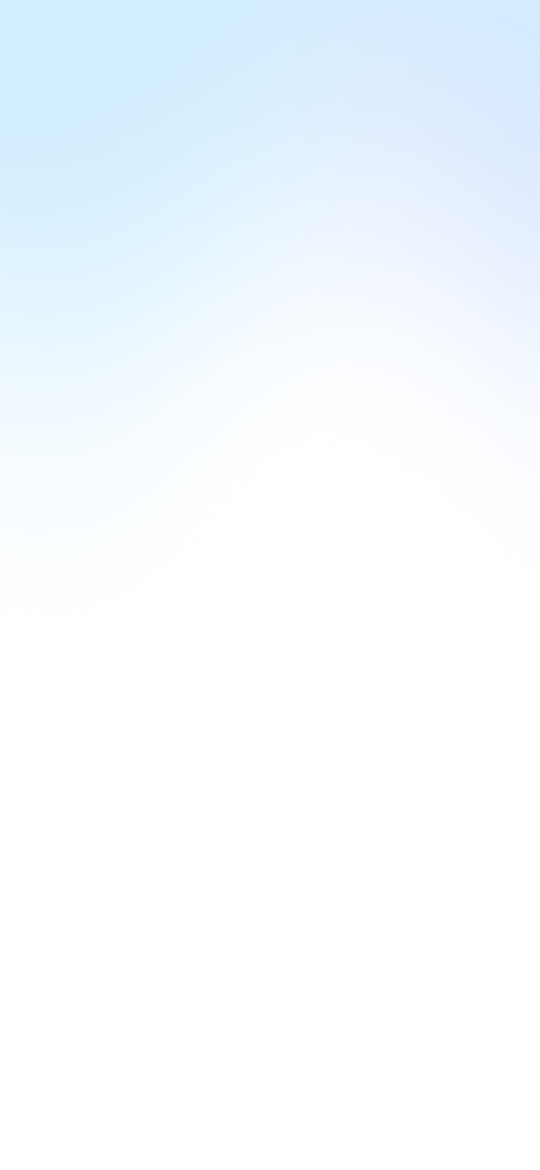
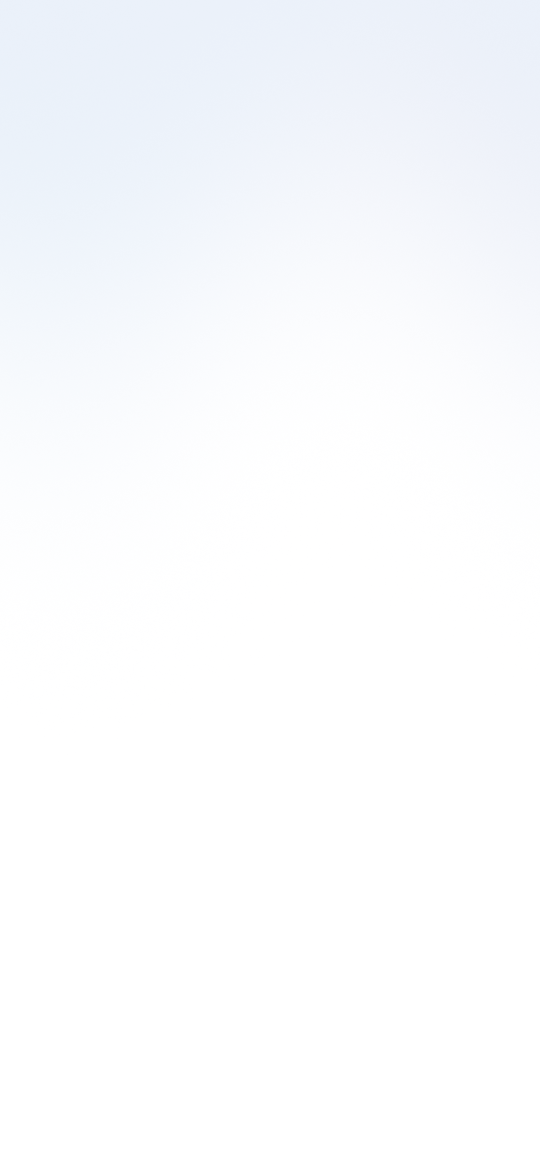
Give the light message bar an edge, settle slate's day on Silver soft, and drop Glass rim and the tap-and-hold
- The light message bar is Edge: white 70%, a device-pixel outline at DLS
  Outline Bold and a bright inner top edge, so it sits on the page as a layer
  the way the dark bar does (the chat pill and the goal-setup card share it).
  The Message bar switch and its Valentino tint are gone.
- slice · slate by day is Silver · soft, a barely-there cool silver crown into
  white (scripts/slice-mesh.cjs, gen_slice-slate-light.webp); the approved
  night is untouched and the Slate by day switch never ships.
- Cards loses Glass rim, leaving Transparent and slice.
- Holding a home card no longer asks to remove it, and that sheet is gone; a
  card deleted from its own page still folds out of the feed.

Changed region(s): [[0.0, 0.0, 0.4148, 0.0923]]

diff --git a/app/preview/ReturnExp1Sim.tsx b/app/preview/ReturnExp1Sim.tsx
@@ -5999,18 +5999,11 @@ type Dash2Goal = { id: string; label: string; saved: number; target: number; eta
     month, and the cap (null = watching it without one). */
 type Dash2Tracker = { id: string; label: string; spent: number; count: number; noun: string; cap: number | null; tint: string; logo?: string; icon?: string };
 /** `goal:<id>` cards are the goals set up in this session; "add-goal" is the
-    dashed button — the one card that cannot be held and removed. */
+    dashed button, the way in rather than a card. */
 type Dash2WidgetId = "budget" | "trip" | "tracker" | "add-goal" | "cashflow" | "upcoming" | `goal:${string}` | `track:${string}`;
 type Dash2Feed = { order: Dash2WidgetId[]; goals: Dash2Goal[]; trackers: Dash2Tracker[] };
 const DASH2_FEED_DEFAULT: Dash2Feed = { order: ["budget", "trip", "tracker", "add-goal", "cashflow", "upcoming"], goals: [], trackers: [] };
 const DASH2_FEED_KEY = "re1.v2feed";
-/** the card's own title, for the remove sheet */
-const DASH2_WIDGET_LABELS: Record<string, string> = { budget: "Oct Budget", trip: "Trip to Japan", tracker: "Food spends", cashflow: "Cashflow", upcoming: "Upcoming payments" };
-function dash2WidgetLabel(id: Dash2WidgetId, feed: Dash2Feed) {
-  return feed.goals.find((g) => `goal:${g.id}` === id)?.label
-    ?? feed.trackers.find((t) => `track:${t.id}` === id)?.label
-    ?? DASH2_WIDGET_LABELS[id] ?? "this card";
-}
 /** What a reload brings back: the default stack with the session's goals
     spliced in above Add Goal. Removing one of the default cards lasts for the
     session you did it in (user call: "have the 3 cards by default" — a
@@ -6980,19 +6973,12 @@ function Dash2AddGoal({ onClick }: { onClick: () => void }) {
   );
 }
 
-/** One card's seat on the v2 feed (user call: cards you can take off). Hold the
-    card about half a second to be asked; a nudge of movement (a scroll starting)
-    or letting go first cancels, and the tap the hold began as never fires. A
-    card on its way out folds shut on the grid-rows trick, its 20px gap going
-    with it, so the stack closes up instead of the card blinking out. */
-function Dash2FeedSlot({ leaving, onHold, children }: { leaving: boolean; onHold: () => void; children: React.ReactNode }) {
-  const timer = useRef<number | null>(null);
-  const start = useRef({ x: 0, y: 0 });
-  const held = useRef(false);
-  const clear = useCallback(() => {
-    if (timer.current !== null) { window.clearTimeout(timer.current); timer.current = null; }
-  }, []);
-  useEffect(() => clear, [clear]);
+/** One card's seat on the v2 feed. A card on its way out (deleted from its own
+    detail page) folds shut on the grid-rows trick, its 20px gap going with it,
+    so the stack closes up instead of the card blinking out. Holding a card to be
+    asked to remove it left on user pin (2026-09-24: "remove tap and hold
+    behaviour"), with its sheet; git history keeps both. */
+function Dash2FeedSlot({ leaving, children }: { leaving: boolean; children: React.ReactNode }) {
   return (
     <div
       style={{
@@ -7001,21 +6987,7 @@ function Dash2FeedSlot({ leaving, onHold, children }: { leaving: boolean; onHold
         marginBottom: leaving ? -20 : 0,
         opacity: leaving ? 0 : 1,
         transition: leaving ? `grid-template-rows 320ms ${DASH2_MORPH_EASE}, margin-bottom 320ms ${DASH2_MORPH_EASE}, opacity 200ms ease` : "none",
-        WebkitTouchCallout: "none",
-        userSelect: "none",
-      } as React.CSSProperties}
-      onPointerDown={(e) => {
-        if (e.button !== 0) return;
-        held.current = false;
-        start.current = { x: e.clientX, y: e.clientY };
-        clear();
-        timer.current = window.setTimeout(() => { timer.current = null; held.current = true; onHold(); }, 480);
       }}
-      onPointerMove={(e) => { if (timer.current !== null && Math.hypot(e.clientX - start.current.x, e.clientY - start.current.y) > 8) clear(); }}
-      onPointerUp={clear}
-      onPointerCancel={clear}
-      onClickCapture={(e) => { if (held.current) { held.current = false; e.preventDefault(); e.stopPropagation(); } }}
-      onContextMenu={(e) => e.preventDefault()}
     >
       <div style={{ minHeight: 0, overflow: leaving ? "hidden" : undefined }}>{children}</div>
     </div>
@@ -7103,8 +7075,6 @@ export default function ReturnExp1Sim({ onExitHome, variant = "v1", homeTheme = 
   const [skinFlag] = useProtoFlag("returnExp1V2Skin");
   const skinVariant = skinFlag;
   const [cardsVariant] = useProtoFlag("returnExp1V2Cards");
-  // "Message bar" (debug panel): the ask bar's fill by day, set in globals.css
-  const [askTint] = useProtoFlag("returnExp1V2AskTint");
   // iOS standalone lays the page out SHORT by the top inset: that strip cannot
   // be laid out into, it IS the opaque status bar, and theme-color is the only
   // thing that paints it. A full-bleed scene therefore appears to start below a
@@ -7276,7 +7246,6 @@ export default function ReturnExp1Sim({ onExitHome, variant = "v1", homeTheme = 
   const [pickFlow, setPickFlow] = useState<"in" | "out">("in");
   const pickS = useSpringValue(pickOpen ? 1 : 0, 300, 30);
   const openPicker = useCallback((f: "in" | "out") => { setPickFlow(f); setPickOpen(true); }, []);
-  const [removeId, setRemoveId] = useState<Dash2WidgetId | null>(null);
   const [leavingId, setLeavingId] = useState<Dash2WidgetId | null>(null);
   const removeWidget = useCallback((id: Dash2WidgetId) => {
     setLeavingId(id);
@@ -8050,7 +8019,7 @@ export default function ReturnExp1Sim({ onExitHome, variant = "v1", homeTheme = 
   // self-expires, so every other route into a drill keeps the slide.
   // The v2 overlay sheet: the app-bar funnel's Filter Bank, or the budget
   // allocation page's How it works.
-  const [v2Sheet, setV2Sheet] = useState<null | "filter" | "how" | "bank-info" | "delete-goal" | "family" | "remove-widget">(null);
+  const [v2Sheet, setV2Sheet] = useState<null | "filter" | "how" | "bank-info" | "delete-goal" | "family">(null);
   // R70: the bank glyph's arrival note (Figma 2933:89257) — once, when home
   // first shows, the 24 glyph shrinks to 12 as it sweeps left to reveal when
   // the accounts last refreshed, or, in red, that some could not. It folds
@@ -8470,10 +8439,10 @@ export default function ReturnExp1Sim({ onExitHome, variant = "v1", homeTheme = 
         ? <Dash2GoalRingCard key={id} onOpen={() => { setActiveGoal(g.id); pushDetail("goal"); }} label={g.label} value={inr(g.saved)} sub={`saved of ${dash2Lakh(g.target)}`} pct={Math.round((g.saved / g.target) * 100)} ariaLabel={`${g.label} details`} introFill={g.id === freshGoal && !full} />
         : byId[id];
       if (!el) return [];
-      // the dashed button is the way IN, not a widget — nothing to hold
+      // the dashed button is the way IN, not a widget — it never leaves the feed
       if (id === "add-goal") return [el];
       return [
-        <Dash2FeedSlot key={id} leaving={leavingId === id} onHold={() => { setRemoveId(id); setV2Sheet("remove-widget"); }}>
+        <Dash2FeedSlot key={id} leaving={leavingId === id}>
           {el}
         </Dash2FeedSlot>,
       ];
@@ -9278,7 +9247,6 @@ export default function ReturnExp1Sim({ onExitHome, variant = "v1", homeTheme = 
       className={ambient ? "re1-ambient" : undefined}
       data-re1-skin={skinVariant}
       data-re1-cards={cardsVariant}
-      data-re1-ask-tint={askTint}
       /* The top wash stays off (user call: the "Top gradient" switch is gone) —
          nulling the scene vars here reaches every layer that reads them at once;
          a "Top background" scene still paints over it. */
@@ -10036,22 +10004,6 @@ export default function ReturnExp1Sim({ onExitHome, variant = "v1", homeTheme = 
                 : detailKind === "goal"
                   ? `Your ${inr(feed.goals.find((g) => g.id === activeGoal)?.saved ?? SETUP_GOAL.lump)} goes back to your balance. The autopay stops.`
                   : "Your ₹84,500 goes back to your balance. The autopay and the family contribution stop."}
-            </p>
-          </Dash2Sheet>
-          {/* Hold a feed card → this. Remove is the outlined secondary and Keep
-              the primary — slice never fills a destructive button — the same
-              shape as the family sheet's canon Remove (2863:84643). */}
-          <Dash2Sheet
-            open={v2Sheet === "remove-widget"}
-            onClose={() => setV2Sheet(null)}
-            title={`Remove ${removeId ? dash2WidgetLabel(removeId, feed) : "this card"}?`}
-            cta="Keep"
-            onCta={() => setV2Sheet(null)}
-            secondary="Remove"
-            onSecondary={() => { setV2Sheet(null); if (removeId) removeWidget(removeId); }}
-          >
-            <p style={{ ...typography.bodySmall, lineHeight: "22px", color: TEXT_SECONDARY, margin: "0 0 8px", padding: `0 ${PAGE_GUTTER}px` }}>
-              Only the card leaves your feed. What it tracks carries on as it is.
             </p>
           </Dash2Sheet>
           {/* Canon 2863:84643: the contribution opens on its amount, and the

diff --git a/app/globals.css b/app/globals.css
@@ -1194,10 +1194,17 @@ textarea,
      hairline over a plain 24px frost, with the canon's soft 32px shadow. The
      R47/R56 pushed backdrop (saturate + contrast) and the specular set are
      retired — the frame's glass draws only an even 1px inner light. The bank
-     glyph went bare at R70, so this is the ask bar's recipe alone. */
-  --re1-ask-bar-bg: rgba(255, 255, 255, 0.6);
+     glyph went bare at R70, so this is the ask bar's recipe alone.
+     2026-09-24 (user pins): by day that bar read flat, a white rim on a white
+     ground, where the dark bar pops as a layer on top. Of the Message bar
+     options tried (Lift, Edge, Float, Glow) the user finalised EDGE, the light
+     twin of the dark bar's lit rim: white 70%, a device-pixel outline at DLS
+     Outline Bold over the hairline, and a bright inner top edge (-11 L* at the
+     edge, against -4.5 before); the soft shadow as it was. The chat pill and
+     the goal-setup card read the same vars. */
+  --re1-ask-bar-bg: rgba(255, 255, 255, 0.7);
   --re1-glass-filter: blur(24px);
-  --re1-glass-shine: inset 0 0 0 1px rgba(255, 255, 255, 0.6);
+  --re1-glass-shine: inset 0 1px 0 #ffffff, 0 0 0 0.5px var(--dls-outline-bold);
   --re1-glass-shadow: 0 2px 32px rgba(0, 0, 0, 0.05);
   /* light keeps the DLS sheet surface; only dark moves to the page black */
   --re1-sheet-bg: var(--dls-bg-sheet);
@@ -1231,14 +1238,6 @@ textarea,
   --re1-amb-tile-bg: rgba(255, 255, 255, 0.05);
   --re1-amb-tile-line: rgba(211, 10, 215, 0.12);
   --re1-amb-cap-bg: #d30ad7;
-}
-/* Message bar = Valentino tint (debug panel, user pin 2026-09-24: "a very
-   subtle Valentino tint" on the input box, light mode): Valentino 500 at 5%
-   laid into the bar's own white-60 frost, by day only. The chat pill and the
-   goal-setup card read the same var, so neither the morph nor the dock
-   changes surface. */
-:root:not(.dark) .re1-ambient[data-re1-ask-tint="valentino"] {
-  --re1-ask-bar-bg: color-mix(in srgb, #d30ad7 5%, rgba(255, 255, 255, 0.6));
 }
 /* The top wash off (always — the "Top gradient" switch is gone). Nulling the
    vars is what makes this one rule enough: the frame, the pinned safe-area
@@ -1511,21 +1510,9 @@ textarea,
   --re1-v2-card-bg: rgba(255, 255, 255, 0.08);
   --dls-ext-bg-subtle-positive: rgba(0, 166, 62, 0.18);
 }
-/* three more Cards styles (user pin 2026-09-24: "2-3 more versions of the
-   cards"), each over the Transparent block's no-line, no-shadow base; Outline
-   and Tonal left on user pin the same day, so Glass rim is the one that stays.
-   Glass rim: a thinner veil with a bright hairline rim and slice's subtle
-   shadow — the DLS 2.0 card elevation (ELEVATION_CARD), user call 2026-09-24 */
-.re1-ambient[data-re1-skin][data-re1-cards="glass"] {
-  --re1-v2-card-bg: rgba(255, 255, 255, 0.55);
-  --re1-v2-card-line: rgba(255, 255, 255, 0.9);
-  --re1-v2-card-shadow: 0 2px 32px rgba(0, 0, 0, 0.05);
-}
-.dark .re1-ambient[data-re1-skin][data-re1-cards="glass"] {
-  --re1-v2-card-bg: rgba(255, 255, 255, 0.05);
-  --re1-v2-card-line: rgba(255, 255, 255, 0.12);
-}
-/* Cards = slice keeps the canon shell but takes slice's subtle shadow, the DLS
+/* Glass rim, Outline and Tonal (three more Cards styles, user pin 2026-09-24)
+   left on user pins the same day ("Glass rim is trash"); git history keeps them.
+   Cards = slice keeps the canon shell but takes slice's subtle shadow, the DLS
    2.0 card elevation, in both modes, in place of the Figma shell's green-cast
    6/16/8 — which read as a green glow on the dark grounds (user call 2026-09-24) */
 .re1-ambient[data-re1-skin][data-re1-cards="slice"] {
@@ -1596,11 +1583,13 @@ textarea,
   --re1-amb-bar: #150e24;
   --re1-amb-wash: url("/return-exp1/ambient/variants/gen_slice-lilac-dark.webp") top center / cover no-repeat, linear-gradient(180deg, #000000, #000000);
 }
-/* slice · slate: sky into periwinkle by day; slate on pure black by night, the
-   night the user approved as it stands ("d3 dark slice cards bg looks good") */
+/* slice · slate: a barely-there cool silver crown into white by day (Silver ·
+   soft, finalised on user pin 2026-09-24 after two rounds of day sets on a
+   "Slate by day" switch — git history keeps them); slate on pure black by night,
+   the night the user approved as it stands ("d3 dark slice cards bg looks good") */
 .re1-ambient[data-re1-skin="slice-slate"] {
   --re1-skin-ground: #ffffff;
-  --re1-amb-bar: #d4edff;
+  --re1-amb-bar: #ebf1fa;
   --re1-amb-wash: url("/return-exp1/ambient/variants/gen_slice-slate-light.webp") top center / cover no-repeat, linear-gradient(180deg, #ffffff, #ffffff);
 }
 .dark .re1-ambient[data-re1-skin="slice-slate"] {

diff --git a/app/lib/protoFlags.ts b/app/lib/protoFlags.ts
@@ -69,6 +69,8 @@ export const PROTO_FLAGS: ProtoFlagDef[] = [
       { id: "slice-slate", label: "slice · slate", hint: "The calmest: sky into periwinkle by day, a slate crown on pure black by night" },
     ],
   },
+  // "Slate by day" left the panel on user pin (2026-09-24: "finalise silver soft"):
+  // slate's day is Silver · soft now; git history keeps the switch and its sets.
   {
     id: "returnExp1V2Cards",
     personaId: "return-exp1-v2",
@@ -76,25 +78,17 @@ export const PROTO_FLAGS: ProtoFlagDef[] = [
     // Split from the ground (user pin 2026-09-24): every card style over every
     // ground. Transparent leads, so each ground keeps the cards it had. Glass
     // rim, Outline and Tonal came in the same day (user pin: "2-3 more versions
-    // of the cards"); Outline and Tonal left on user pin the same day.
+    // of the cards") and all three left on user pins the same day ("Glass rim
+    // is trash"); git history keeps them.
     options: [
       { id: "transparent", label: "Transparent", hint: "White 78% by day with a subtle hairline, 8% by night — no shadow — so the ground shows through; the On Track tag goes translucent with them" },
-      { id: "glass", label: "Glass rim", hint: "A thinner veil (white 55% by day, 5% by night) with a bright hairline rim and slice's subtle shadow — panes of glass with an edge" },
       { id: "slice", label: "slice", hint: "The canon shell: a solid card with the hairline and slice's subtle shadow (the DLS card elevation)" },
     ],
   },
-  {
-    id: "returnExp1V2AskTint",
-    personaId: "return-exp1-v2",
-    label: "Message bar",
-    // the ask bar's fill (user pin 2026-09-24: "a light mode version where this
-    // input box has a very subtle Valentino tint"). By day only; the chat pill
-    // and the goal-setup card share the fill, so the morph never changes surface.
-    options: [
-      { id: "glass", label: "Glass", hint: "The bar as it stands: white 60% over a 24px frost by day" },
-      { id: "valentino", label: "Valentino tint", hint: "By day only: Valentino at 5% in the same frost, through the chat and the goal-setup card too; night keeps its bar" },
-    ],
-  },
+  // "Message bar" left the panel on user pin (2026-09-24: "edge seems the best
+  // one, let's finalise it and remove the rest"): Edge is the light bar's own
+  // recipe in globals.css now, and Glass, Lift, Float and Glow (and the Valentino
+  // tint before them) are in git history.
   // "Chat opening" left the panel on user pin (2026-09-24: "finalise recede and
   // remove the rest"): v2's chat recedes, and Focus, Rise, Unfold and Glow are
   // in git history.

diff --git a/docs/return-exp1-spec.md b/docs/return-exp1-spec.md
@@ -124,6 +124,13 @@
 > merchant's logo is a crisp inlay, because feathered into a pale face its
 > disc smeared into a blur.
 
+> **2026-09-24 follow-up — slate by day, and no hold:** **Slate by day** is Silver · soft ("finalise
+> silver soft"): a barely-there cool silver crown into white, after two rounds
+> of day sets on a switch that has now left the panel; the approved night is
+> untouched. **No tap and hold** (user pin): holding a home card no longer
+> asks to remove it, and that sheet is gone. A card deleted from its own
+> detail page still folds out of the feed.
+
 > **2026-09-24 follow-up — Recede is the chat's opening:** "Chat opening"
 > leaves the debug panel (user pin: "finalise recede and remove the rest").
 > v2's chat recedes: the feed sinks back toward the message bar and dims
@@ -328,15 +335,24 @@
 > cards' hairline is the DLS subtle outline, #FFFFFF 5% (user pin on the
 > Budget card; both had none).
 
-> **2026-09-24 follow-up — Message bar, a Valentino tint by day:** The debug
-> panel takes a **Message bar** switch (user pin: "a light mode version where
-> this input box has a very subtle Valentino tint"). **Glass**, the default, is
-> the bar as it stands; **Valentino tint** lays Valentino 500 at 5% into the
-> bar's own white 60% frost, by day only; after dark the bar is unchanged. The
-> chat pill and the goal-setup card share the bar's fill, so they take the tint
-> too and the morph never changes surface. 4% barely read, and 7% or the V-50
-> token read as pink rather than a tint; a Valentino hairline added nothing at
-> this strength, so the rim keeps the DLS subtle outline.
+> **2026-09-24 follow-up — the light bar gets an edge:** After dark the
+> message bar reads as a layer on top of the page, and by day it read flat
+> (user pins: "the dark one pops like another layer on top; the light one
+> feels very flat"). After dark it separates by a tone step (white 12% over the
+> near-black ground, +12 L*), a lit rim (+15 L* at its edge) and depth. By day,
+> white 60% over a white ground has none of them: a white rim on white and a
+> 5% shadow, −4.5 L* at the edge. On a white ground no tone step is possible,
+> so a **Message bar** switch tried rebuilding the edge and the depth: Lift (a
+> two-layer shadow), Edge, Float (both) and Glow (Valentino light). The user
+> finalised **Edge** ("edge seems the best one, let's finalise it and remove
+> the rest"). It is the light twin of the dark bar's lit rim: white 70%, a
+> device-pixel outline at DLS Outline Bold over the 1px hairline, and a bright
+> inner top edge, −11 L* at the edge; the soft DLS card shadow stays as it was.
+> It is the bar's own recipe now, and the switch left the panel. The chat pill
+> and the goal-setup card share it, so the morph never changes surface. After
+> dark the bar is unchanged. A Valentino fill (V-500 at 5% in the frost) was
+> the first try and is cut: Valentino is the DLS input focus colour, not an
+> idle fill, and 4% barely read while 7% or V-50 read as pink.
 
 > **2026-09-24 follow-up — Ground and Cards, two switches; slice becomes a
 > mesh ground:** The "Ground & cards" switch is split in two (user pin:
@@ -344,14 +360,14 @@
 > Galaxy (the default), slice or Indigo haze. **Cards** is Transparent (the
 > default: white 78% by day with the DLS subtle hairline, so it no longer
 > blends into the pale grounds; white 8% by night; no shadow; the On Track tag
-> translucent with them), Glass rim (a thinner veil with a bright hairline rim
-> and slice's subtle shadow) or slice (the canon shell, a solid card and its
-> hairline). Outline (barely any fill, just a hairline) and Tonal (solid, the
-> ground's own colour a step lighter) came in with Glass rim and left the same
-> day (user pin). Glass rim and slice both take slice's subtle
-> shadow, the DLS 2.0 card elevation (0 2px 32px, black 5%), in both modes; the
-> Figma shell's green-cast 6/16/8 read as a green glow on the dark grounds
-> (user call). Any card style sits
+> translucent with them) or slice (the canon shell, a solid card and its
+> hairline). Glass rim (a thinner veil with a bright hairline rim), Outline
+> (barely any fill, just a hairline) and Tonal (solid, the ground's own colour
+> a step lighter) came in together and all three left the same day (user pins:
+> "Glass rim is trash"). slice takes slice's subtle shadow, the DLS 2.0 card
+> elevation (0 2px 32px, black 5%), in both modes; the Figma shell's
+> green-cast 6/16/8 read as a green glow on the dark grounds (user call). Any
+> card style sits
 > over any ground. The **slice** ground is no longer the page as it stood
 > (user pins): it is a mesh pinned behind the page, which never scrolls with
 > it, with no grain in either mode. By day, soft violet, slice-blue and

diff --git a/GENERATED_ASSETS.md b/GENERATED_ASSETS.md
@@ -319,7 +319,7 @@ the whole Aurora 2 family now starts at the top edge.
 | public/return-exp1/ambient/variants/gen_slice-duo-dark.webp | Ground · slice · duo, dark — the same crown by night: a plum edge (left) on navy out of a navy top edge, pure black by the second card; 540×1170 (the frame's aspect), top-anchored cover-fit, pinned, never scrolls | none (DLS tints; user pins "mesh at the top fading to white", "muddy", "gradient lines") | scripts/slice-mesh.cjs (OKLab B-spline mesh, random-rounding dither; not image_gen) | 2026-09-24 | archived — cut on user pin 2026-09-24 ("remove slice duo from ground") |
 | public/return-exp1/ambient/variants/gen_slice-lilac-light.webp | Ground · slice · lilac, light — one violet as a mesh crown, warm at the left and cool at the right, softer and a little deeper; 540×1170 (the frame's aspect), top-anchored cover-fit, pinned, never scrolls | none (DLS tints; user pins "mesh at the top fading to white", "muddy", "gradient lines") | scripts/slice-mesh.cjs (OKLab B-spline mesh, random-rounding dither; not image_gen) | 2026-09-24 | active prototype |
 | public/return-exp1/ambient/variants/gen_slice-lilac-dark.webp | Ground · slice · lilac, dark — the same violet crown as aubergine on pure black; 540×1170 (the frame's aspect), top-anchored cover-fit, pinned, never scrolls | none (DLS tints; user pins "mesh at the top fading to white", "muddy", "gradient lines") | scripts/slice-mesh.cjs (OKLab B-spline mesh, random-rounding dither; not image_gen) | 2026-09-24 | active prototype |
-| public/return-exp1/ambient/variants/gen_slice-slate-light.webp | Ground · slice · slate, light — a sky crown drifting to periwinkle at the right, pure white by the second card; 540×1170 (the frame's aspect), top-anchored cover-fit, pinned, never scrolls | none (DLS tints; user pins "mesh at the top fading to white", "muddy", "gradient lines") | scripts/slice-mesh.cjs (OKLab B-spline mesh, random-rounding dither; not image_gen) | 2026-09-24 | active prototype |
+| public/return-exp1/ambient/variants/gen_slice-slate-light.webp | Ground · slice · slate, light — Silver · soft (finalised 2026-09-24, "finalise silver soft"): a barely-there cool silver crown, pure white by the second card; the sky crown it replaced and the Slate by day trial sets are in git history; 540×1170 (the frame's aspect), top-anchored cover-fit, pinned, never scrolls | none (DLS tints; user pins "mesh at the top fading to white", "muddy", "gradient lines") | scripts/slice-mesh.cjs (OKLab B-spline mesh, random-rounding dither; not image_gen) | 2026-09-24 | active prototype |
 | public/return-exp1/ambient/variants/gen_slice-slate-dark.webp | Ground · slice · slate, dark — a slate crown on pure black (the round the user approved: "d3 dark slice cards bg looks good"); 540×1170 (the frame's aspect), top-anchored cover-fit, pinned, never scrolls | none (DLS tints; user pins "mesh at the top fading to white", "muddy", "gradient lines") | scripts/slice-mesh.cjs (OKLab B-spline mesh, random-rounding dither; not image_gen) | 2026-09-24 | active prototype |
 | public/return-exp1/ambient/variants/gen_revbg-field-light.webp | Ground & cards · Colour field, light — Revolut's theme picker — large defocused pools of blue, magenta and amber on navy by night; pastel sky, lilac and peach by day; full-screen 2:3, pinned, never scrolls | Revolut home/analytics screens (palette, mood); gen_scene-aurora-mobile-light (restraint) | codex image_gen | 2026-09-24 | archived — cut on user call 2026-09-24 ("trash") |
 | public/return-exp1/ambient/variants/gen_revbg-field-dark.webp | Ground & cards · Colour field, dark — Revolut's theme picker — large defocused pools of blue, magenta and amber on navy by night; pastel sky, lilac and peach by day; full-screen 2:3, pinned, never scrolls | Revolut home/analytics screens (palette, mood); gen_scene-aurora-mobile-dark (restraint) | codex image_gen | 2026-09-24 | archived — cut on user call 2026-09-24 ("trash") |
